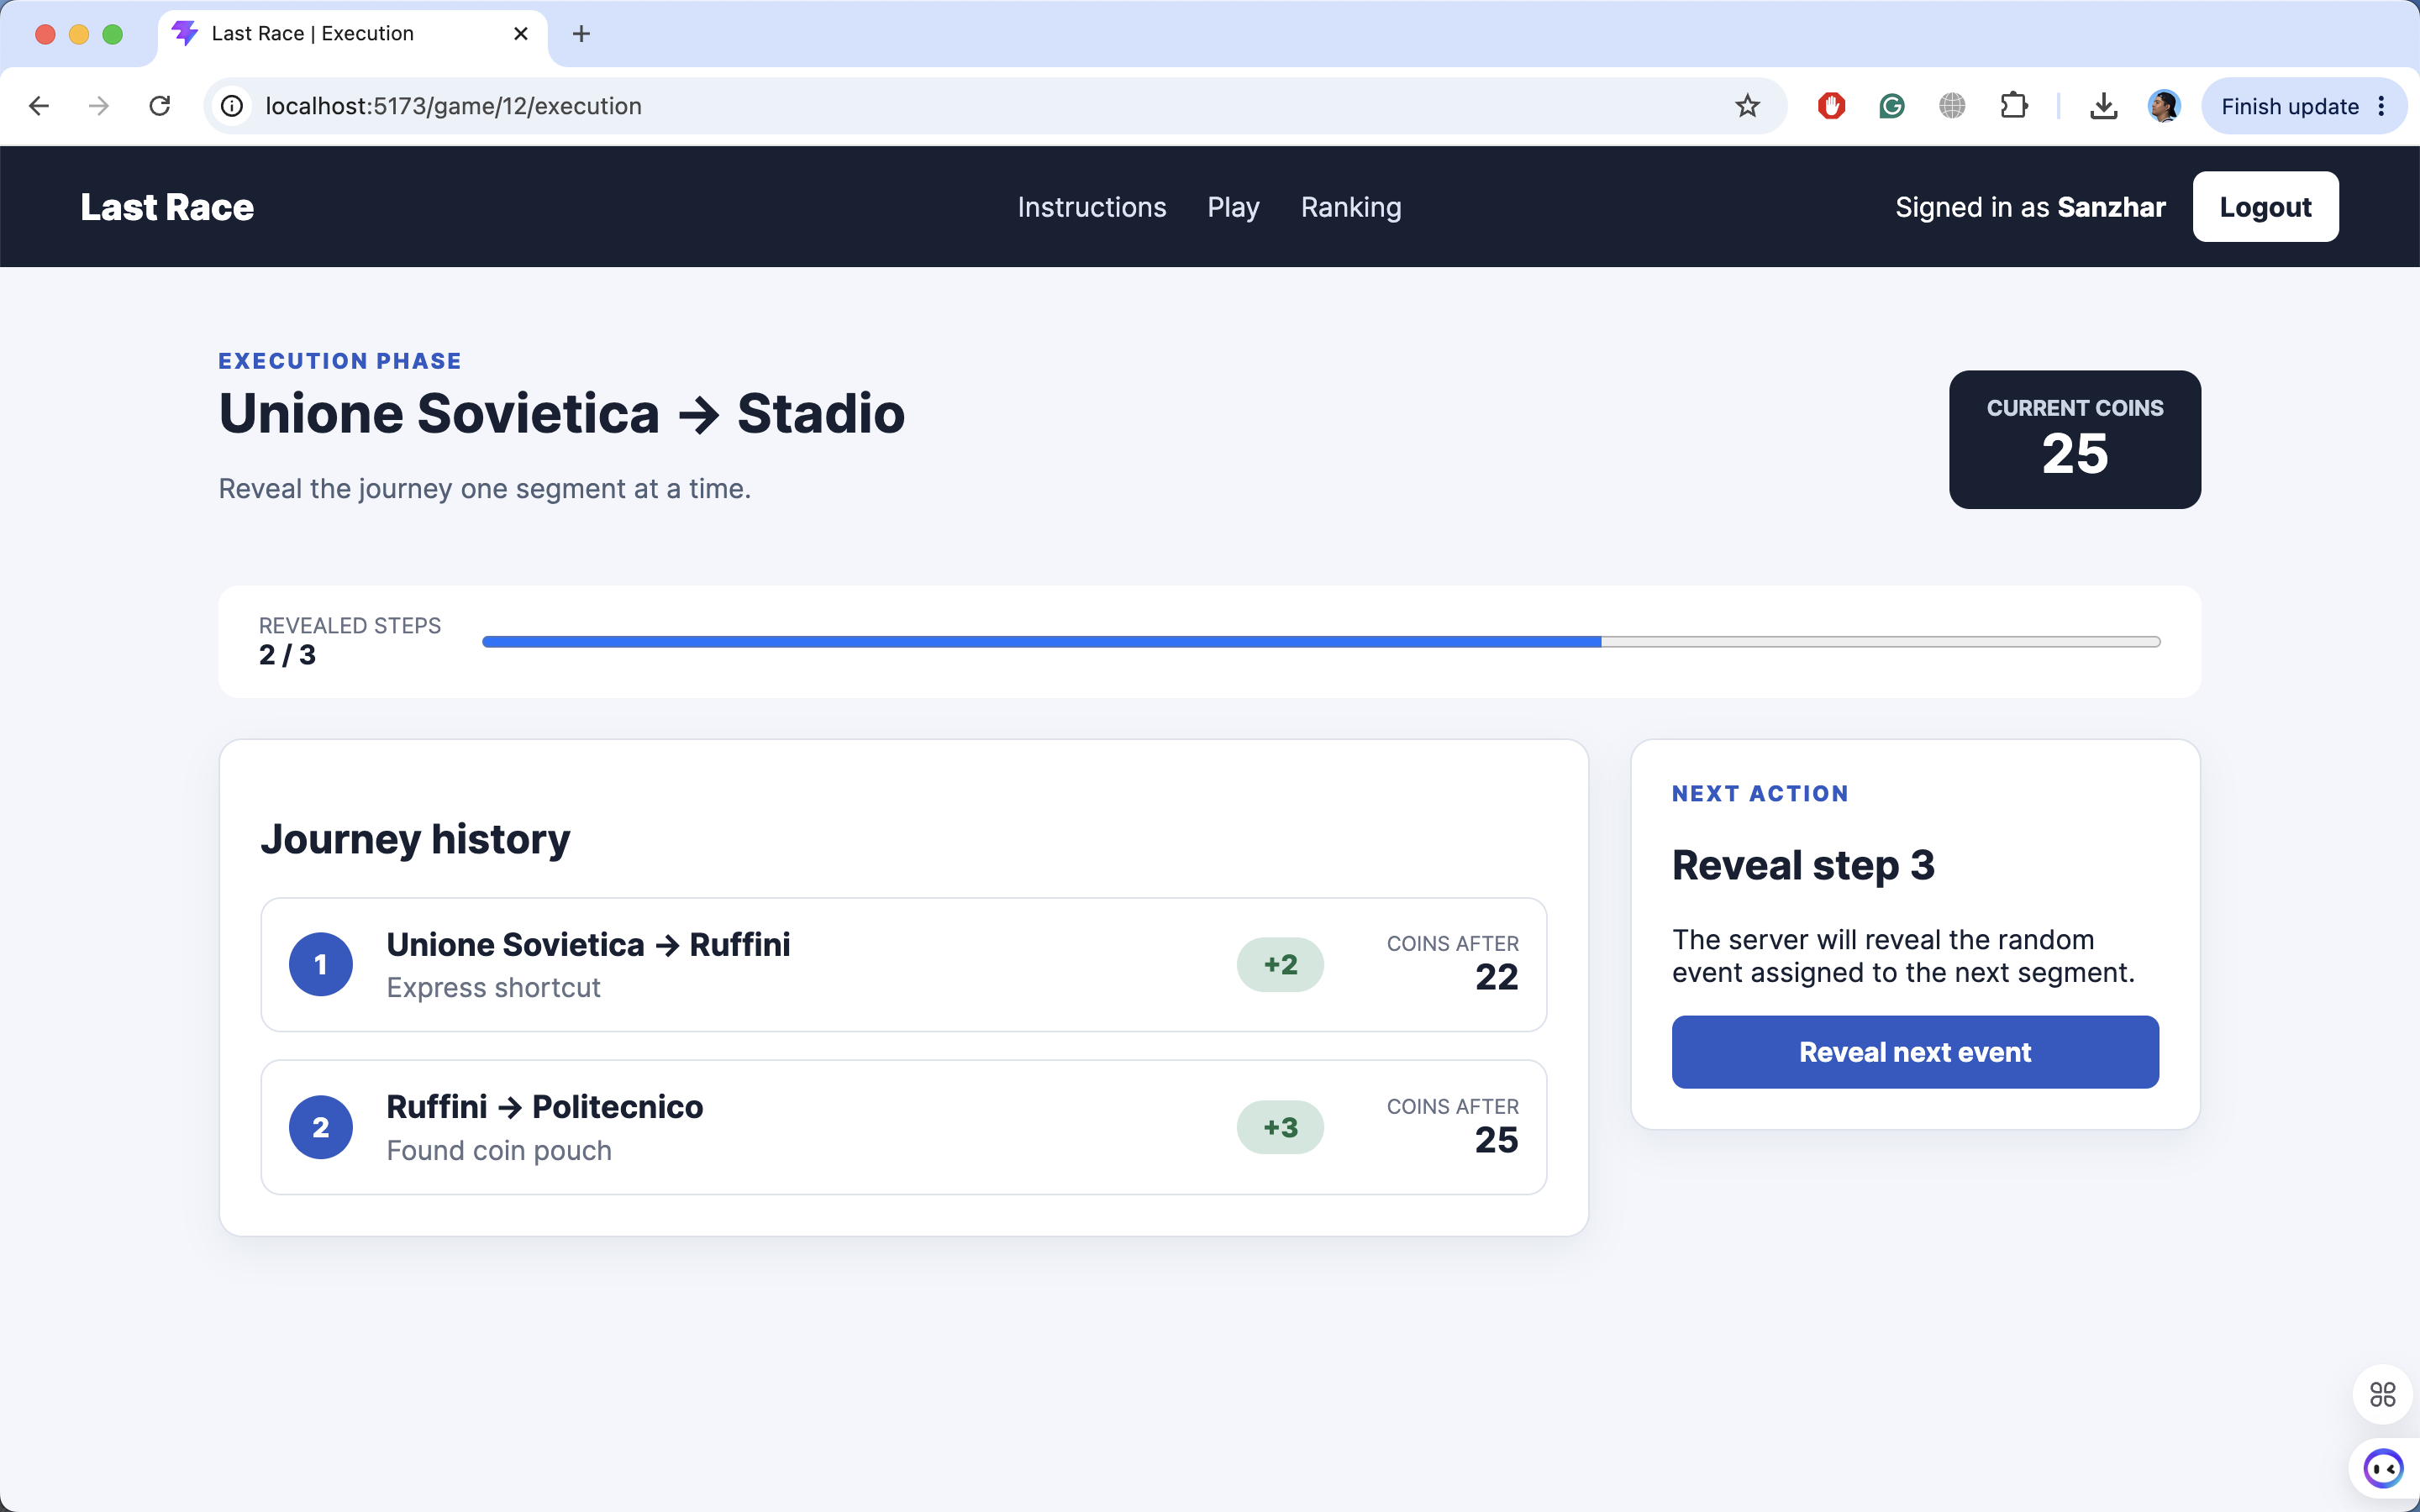
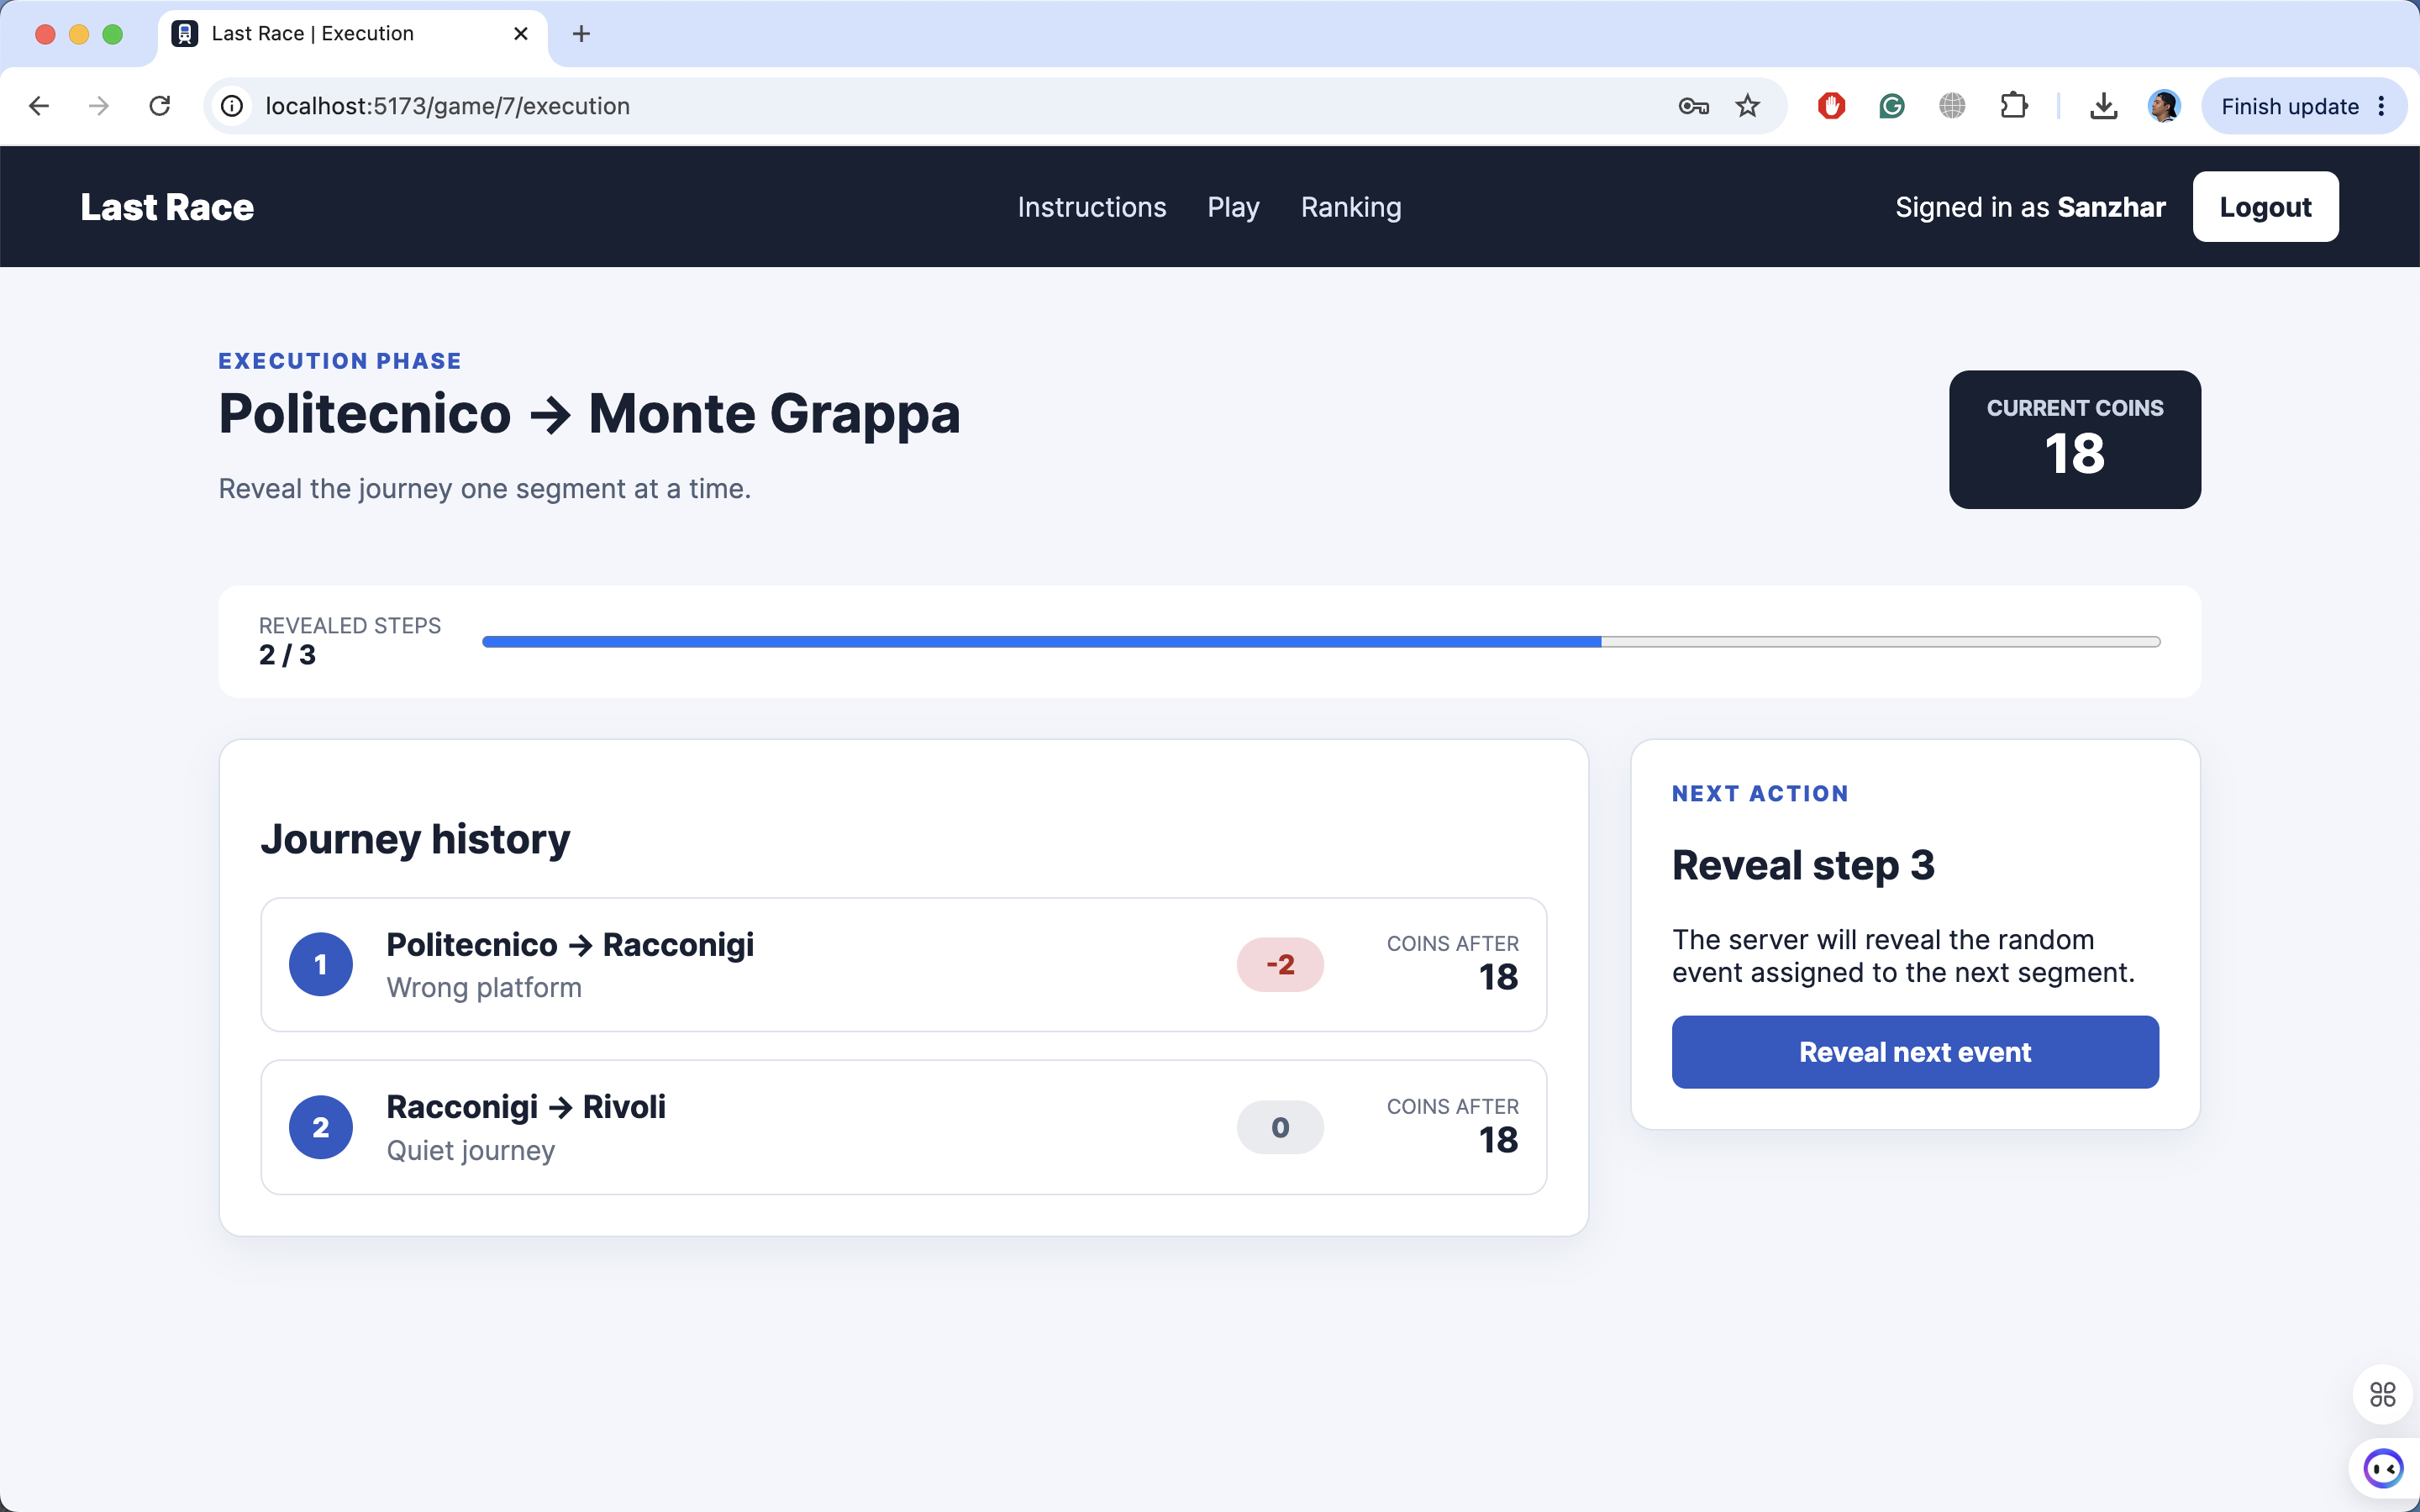
Update README and game in progress screenshot

diff --git a/README.md b/README.md
@@ -65,12 +65,15 @@ Except for the health check and login API, all endpoints require an authenticate
 - `ResultPage` (in `pages/ResultPage.jsx`): displays the final score and, for successful games, the completed journey summary.
 - `RankingPage` (in `pages/RankingPage.jsx`): retrieves and displays the general ranking based on each user's best successful score.
 
-## Screenshot
+## Screenshots
 
 - General Ranking Page
+
 ![Screenshot](./screenshots/ranking.png)
 
+
 - Game in Progress
+
 ![Screenshot](./screenshots/game-in-progress.png)
 
 ## Users Credentials